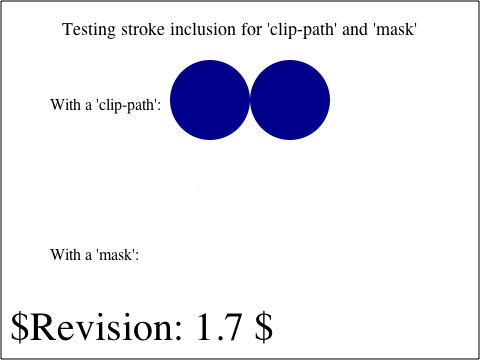
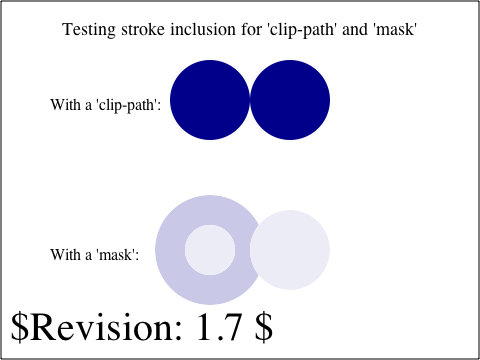
2007-06-01  Eric Seidel  <eric@webkit.org>
Reviewed by olliej.

        Add support for maskUnits and maskContentUnits
        http://bugs.webkit.org/show_bug.cgi?id=12568
        
        This is covered by the W3C tests (including mask-intro01)

        * ksvg2/svg/SVGMaskElement.cpp:
        (WebCore::SVGMaskElement::SVGMaskElement):
        (WebCore::SVGMaskElement::parseMappedAttribute):
        (WebCore::SVGMaskElement::drawMaskerContent):
        (WebCore::SVGMaskElement::canvasResource):
        (WebCore::SVGMaskElement::notifyAttributeChange):
        * ksvg2/svg/SVGMaskElement.h:
        * ksvg2/svg/SVGMaskElement.idl:
        * platform/graphics/svg/SVGResourceMasker.cpp:
        (WebCore::SVGResourceMasker::SVGResourceMasker):
        (WebCore::SVGResourceMasker::invalidate):
        * platform/graphics/svg/SVGResourceMasker.h:
        * platform/graphics/svg/cg/SVGResourceMaskerCg.mm:
        (WebCore::SVGResourceMasker::applyMask):

git-svn-id: http://svn.webkit.org/repository/webkit/branches/feature-branch@21944 268f45cc-cd09-0410-ab3c-d52691b4dbfc

Changed region(s): [[0.3125, 0.5194, 0.5625, 0.8556]]

diff --git a/WebCore/ksvg2/svg/SVGMaskElement.cpp b/WebCore/ksvg2/svg/SVGMaskElement.cpp
@@ -31,6 +31,7 @@
 #include "RenderSVGContainer.h"
 #include "SVGLength.h"
 #include "SVGNames.h"
+#include "SVGUnitTypes.h"
 #include "cssstyleselector.h"
 #include <math.h>
 #include <wtf/MathExtras.h>
@@ -46,11 +47,12 @@ SVGMaskElement::SVGMaskElement(const QualifiedName& tagName, Document* doc)
     , SVGTests()
     , SVGLangSpace()
     , SVGExternalResourcesRequired()
+    , m_maskUnits(SVGUnitTypes::SVG_UNIT_TYPE_OBJECTBOUNDINGBOX)
+    , m_maskContentUnits(SVGUnitTypes::SVG_UNIT_TYPE_USERSPACEONUSE)
     , m_x(this, LengthModeWidth)
     , m_y(this, LengthModeHeight)
     , m_width(this, LengthModeWidth)
     , m_height(this, LengthModeHeight)
-    , m_dirty(true)
 {
     // Spec: If the attribute is not specified, the effect is as if a value of "-10%" were specified.
     setXBaseValue(SVGLength(this, LengthModeWidth, "-10%"));
@@ -65,6 +67,9 @@ SVGMaskElement::~SVGMaskElement()
 {
 }
 
+ANIMATED_PROPERTY_DEFINITIONS(SVGMaskElement, int, Enumeration, enumeration, MaskUnits, maskUnits, SVGNames::maskUnitsAttr.localName(), m_maskUnits)
+ANIMATED_PROPERTY_DEFINITIONS(SVGMaskElement, int, Enumeration, enumeration, MaskContentUnits, maskContentUnits, SVGNames::maskContentUnitsAttr.localName(), m_maskContentUnits)
+
 ANIMATED_PROPERTY_DEFINITIONS(SVGMaskElement, SVGLength, Length, length, X, x, SVGNames::xAttr.localName(), m_x)
 ANIMATED_PROPERTY_DEFINITIONS(SVGMaskElement, SVGLength, Length, length, Y, y, SVGNames::yAttr.localName(), m_y)
 ANIMATED_PROPERTY_DEFINITIONS(SVGMaskElement, SVGLength, Length, length, Width, width, SVGNames::widthAttr.localName(), m_width)
@@ -72,7 +77,17 @@ ANIMATED_PROPERTY_DEFINITIONS(SVGMaskElement, SVGLength, Length, length, Height,
 
 void SVGMaskElement::parseMappedAttribute(MappedAttribute* attr)
 {
-    if (attr->name() == SVGNames::xAttr)
+    if (attr->name() == SVGNames::maskUnitsAttr) {
+        if (attr->value() == "userSpaceOnUse")
+            setMaskUnitsBaseValue(SVGUnitTypes::SVG_UNIT_TYPE_USERSPACEONUSE);
+        else if (attr->value() == "objectBoundingBox")
+            setMaskUnitsBaseValue(SVGUnitTypes::SVG_UNIT_TYPE_OBJECTBOUNDINGBOX);
+    } else if (attr->name() == SVGNames::maskContentUnitsAttr) {
+        if (attr->value() == "userSpaceOnUse")
+            setMaskContentUnitsBaseValue(SVGUnitTypes::SVG_UNIT_TYPE_USERSPACEONUSE);
+        else if (attr->value() == "objectBoundingBox")
+            setMaskContentUnitsBaseValue(SVGUnitTypes::SVG_UNIT_TYPE_OBJECTBOUNDINGBOX);
+    } else if (attr->name() == SVGNames::xAttr)
         setXBaseValue(SVGLength(this, LengthModeWidth, attr->value()));
     else if (attr->name() == SVGNames::yAttr)
         setYBaseValue(SVGLength(this, LengthModeHeight, attr->value()));
@@ -93,23 +108,58 @@ void SVGMaskElement::parseMappedAttribute(MappedAttribute* attr)
     }
 }
 
-auto_ptr<ImageBuffer> SVGMaskElement::drawMaskerContent()
-{
-    IntSize size = IntSize(lroundf(width().value()), lroundf(height().value()));
+auto_ptr<ImageBuffer> SVGMaskElement::drawMaskerContent(const FloatRect& targetRect, FloatRect& maskDestRect) const
+{    
+    // Determine specified mask size
+    float xValue = x().valueAsPercentage();
+    float yValue = y().valueAsPercentage();
+    float widthValue = width().valueAsPercentage();
+    float heightValue = height().valueAsPercentage();
+    
+    if (maskUnits() == SVGUnitTypes::SVG_UNIT_TYPE_OBJECTBOUNDINGBOX) {
+        xValue *= targetRect.width();
+        yValue *= targetRect.height();
+        widthValue *= targetRect.width();
+        heightValue *= targetRect.height();
+    }
 
-    auto_ptr<ImageBuffer> maskImage = ImageBuffer::create(size, false);
+    auto_ptr<ImageBuffer> maskImage = ImageBuffer::create(IntSize(lroundf(widthValue), lroundf(heightValue)), false);
     if (!maskImage.get())
         return maskImage;
+    maskDestRect = FloatRect(xValue, yValue, widthValue, heightValue);
+    if (maskUnits() == SVGUnitTypes::SVG_UNIT_TYPE_OBJECTBOUNDINGBOX)
+        maskDestRect.move(targetRect.x(), targetRect.y());
 
     GraphicsContext* maskImageContext = maskImage->context();
     ASSERT(maskImageContext);
-
+    
     maskImageContext->save();
-    maskImageContext->translate(-x().value(), -y().value());
-
-    ImageBuffer::renderSubtreeToImage(maskImage.get(), renderer());
-
+    maskImageContext->translate(-xValue, -yValue);
+    
+    if (maskContentUnits() == SVGUnitTypes::SVG_UNIT_TYPE_OBJECTBOUNDINGBOX) {
+        maskImageContext->save();
+        maskImageContext->scale(FloatSize(targetRect.width(), targetRect.height()));
+    }
+    
+    // Render subtree into ImageBuffer
+    for (Node* n = firstChild(); n; n = n->nextSibling()) {
+        SVGElement* elem = svg_dynamic_cast(n);
+        if (!elem || !elem->isStyled())
+            continue;
+        
+        SVGStyledElement* e = static_cast<SVGStyledElement*>(elem);
+        RenderObject* item = e->renderer();
+        if (!item)
+            continue;
+        
+        ImageBuffer::renderSubtreeToImage(maskImage.get(), item);
+    }
+    
+    if (maskContentUnits() == SVGUnitTypes::SVG_UNIT_TYPE_OBJECTBOUNDINGBOX)
+        maskImageContext->restore();
+    
     maskImageContext->restore();
+
     return maskImage;
 }
  
@@ -122,14 +172,8 @@ RenderObject* SVGMaskElement::createRenderer(RenderArena* arena, RenderStyle*)
 
 SVGResource* SVGMaskElement::canvasResource()
 {
-    if (!m_masker) {
-        m_masker = new SVGResourceMasker();
-        m_dirty = true;
-    }
-    if (m_dirty) {
-        m_masker->setMask(drawMaskerContent());
-        m_dirty = !m_masker->mask();
-    }
+    if (!m_masker)
+        m_masker = new SVGResourceMasker(this);
     return m_masker.get();
 }
 
@@ -137,11 +181,7 @@ void SVGMaskElement::notifyAttributeChange() const
 {
     if (!attached() || ownerDocument()->parsing())
         return;
-
-    IntSize newSize = IntSize(lroundf(width().value()), lroundf(height().value()));
-    if (!m_masker || !m_masker->mask() || (m_masker->mask()->size() != newSize))
-        m_dirty = true;
-
+    
     if (m_masker) {
         m_masker->invalidate();
         m_masker->repaintClients();

diff --git a/WebCore/ksvg2/svg/SVGMaskElement.h b/WebCore/ksvg2/svg/SVGMaskElement.h
@@ -52,12 +52,15 @@ namespace WebCore
 
         virtual RenderObject* createRenderer(RenderArena*, RenderStyle*);
         virtual SVGResource* canvasResource();
+        
+        std::auto_ptr<ImageBuffer> drawMaskerContent(const FloatRect& targetRect, FloatRect& maskRect) const;
 
     protected:
-        std::auto_ptr<ImageBuffer> drawMaskerContent();
-
         ANIMATED_PROPERTY_FORWARD_DECLARATIONS(SVGURIReference, String, Href, href)
         ANIMATED_PROPERTY_FORWARD_DECLARATIONS(SVGExternalResourcesRequired, bool, ExternalResourcesRequired, externalResourcesRequired)
+            
+        ANIMATED_PROPERTY_DECLARATIONS(SVGMaskElement, int, int, MaskUnits, maskUnits)
+        ANIMATED_PROPERTY_DECLARATIONS(SVGMaskElement, int, int, MaskContentUnits, maskContentUnits)
  
         ANIMATED_PROPERTY_DECLARATIONS(SVGMaskElement, SVGLength, SVGLength, X, x)
         ANIMATED_PROPERTY_DECLARATIONS(SVGMaskElement, SVGLength, SVGLength, Y, y)
@@ -68,7 +71,6 @@ namespace WebCore
 
     private:
         RefPtr<SVGResourceMasker> m_masker;
-        mutable bool m_dirty;
     };
 
 } // namespace WebCore
